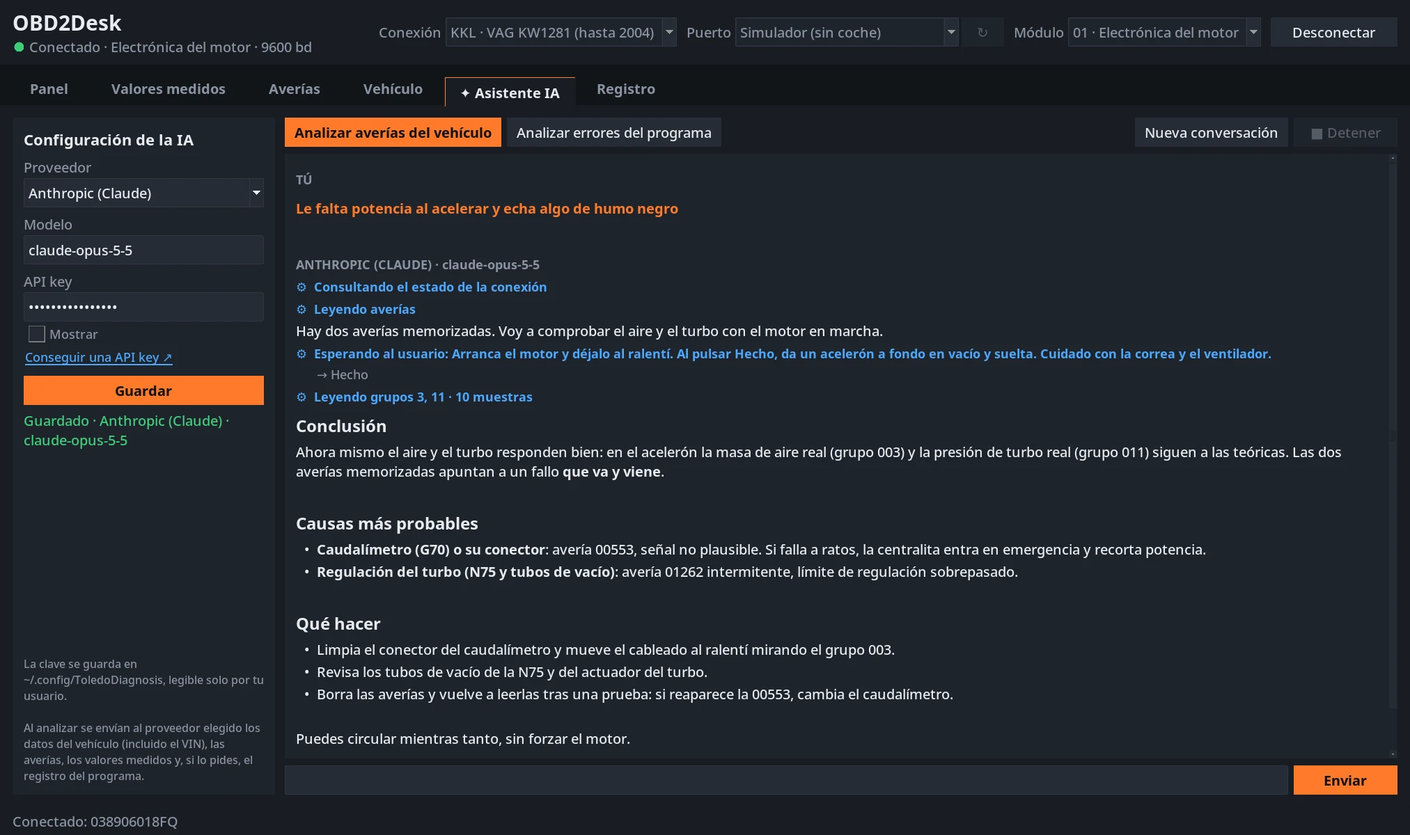
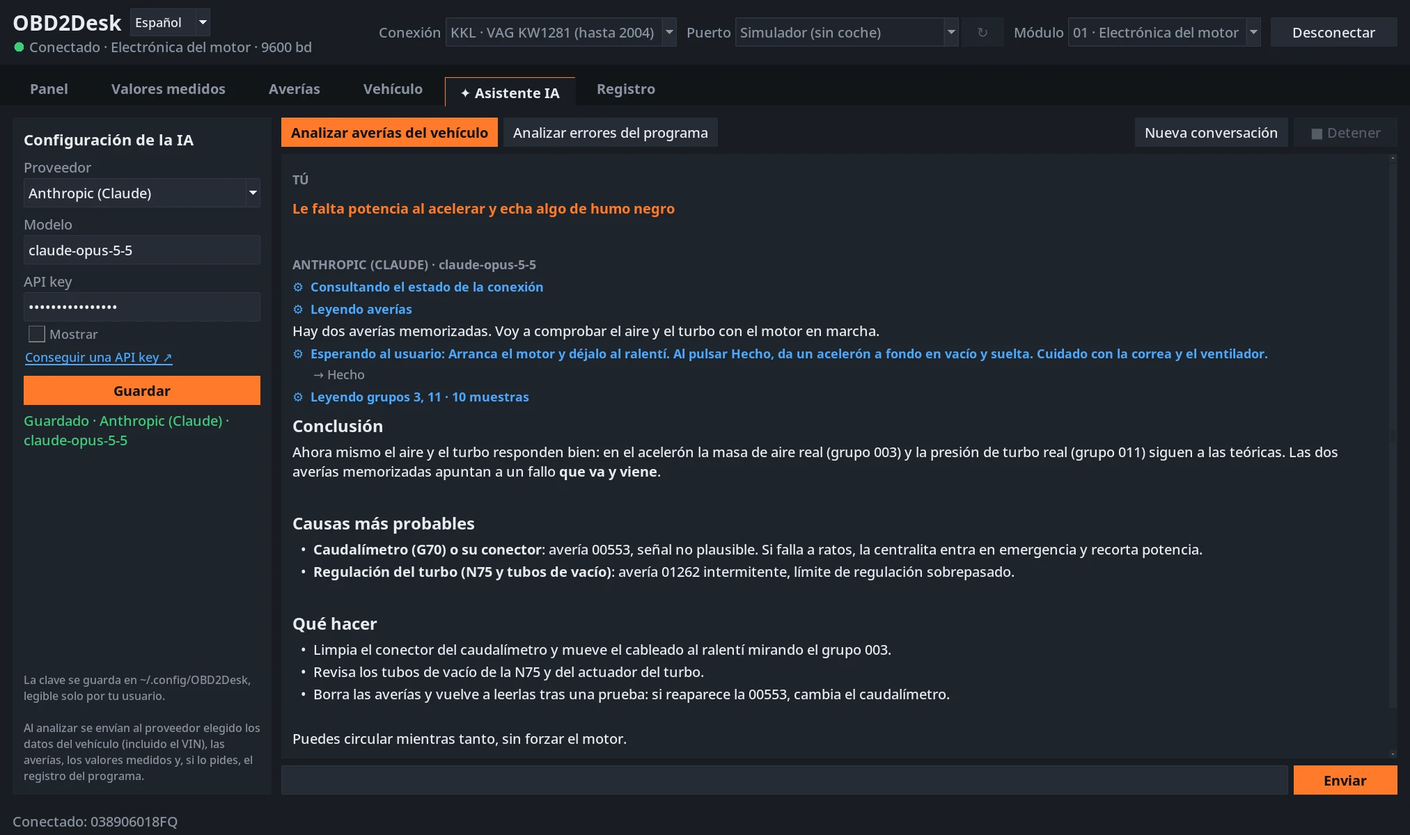
Web: instrucciones de Linux con OBD2Desk y capturas en inglés

diff --git a/web/en/index.html b/web/en/index.html
@@ -11,7 +11,7 @@
 <meta property="og:type" content="website">
 <meta property="og:title" content="OBD2Desk · Car diagnostics from your laptop">
 <meta property="og:description" content="Fault codes, live values and an AI assistant that runs the checks for you. For older VAG cars with a KKL cable and any car with OBD2.">
-<meta property="og:image" content="https://obd2desk.com/img/og.jpg">
+<meta property="og:image" content="https://obd2desk.com/img/en/og.jpg">
 <meta property="og:url" content="https://obd2desk.com/en/">
 <meta property="og:locale" content="en_US">
 <meta property="og:locale:alternate" content="es_ES">
@@ -56,7 +56,7 @@
       <a class="boton boton-secundario" href="https://github.com/jaso69/obd2">View on GitHub</a>
     </div>
     <figure class="captura captura-portada">
-      <a href="../img/panel-kkl.webp" class="ampliar"><img src="../img/panel-kkl.webp" width="1995" height="1200"
+      <a href="../img/en/panel-kkl.webp" class="ampliar"><img src="../img/en/panel-kkl.webp" width="1995" height="1200"
         alt="Dashboard connected to a VAG engine control unit: gauges for RPM, injected quantity, boost and coolant, and charts of boost pressure and air mass"></a>
     </figure>
     <div class="tres">
@@ -86,11 +86,11 @@
         <h3>Live dashboard</h3>
         <p>Gauges and charts of the last 60 seconds. With the KKL cable you see RPM, injected quantity, actual vs. specified boost pressure, air mass, and N75 and EGR duty cycle. With an ELM327: RPM, speed, temperatures, load, MAF, throttle and voltage.</p>
         <div class="selector" role="tablist" data-grupo="panel">
-          <button role="tab" aria-selected="true" data-img="../img/panel-kkl.webp" data-alt="Dashboard in KKL mode with boost and air mass">KKL · VAG</button>
-          <button role="tab" aria-selected="false" data-img="../img/panel-obd.webp" data-alt="Dashboard in OBD2 mode with RPM, speed, coolant and load">ELM327 · OBD2</button>
+          <button role="tab" aria-selected="true" data-img="../img/en/panel-kkl.webp" data-alt="Dashboard in KKL mode with boost and air mass">KKL · VAG</button>
+          <button role="tab" aria-selected="false" data-img="../img/en/panel-obd.webp" data-alt="Dashboard in OBD2 mode with RPM, speed, coolant and load">ELM327 · OBD2</button>
         </div>
       </div>
-      <figure class="captura"><a href="../img/panel-kkl.webp" class="ampliar" data-grupo="panel"><img src="../img/panel-kkl.webp" width="1995" height="1200" loading="lazy" alt="Dashboard in KKL mode with boost and air mass"></a></figure>
+      <figure class="captura"><a href="../img/en/panel-kkl.webp" class="ampliar" data-grupo="panel"><img src="../img/en/panel-kkl.webp" width="1995" height="1200" loading="lazy" alt="Dashboard in KKL mode with boost and air mass"></a></figure>
     </div>
 
     <div class="fila-funcion invertida">
@@ -99,7 +99,7 @@
         <p>Pick VAG measuring blocks (001 injection, 003 MAF and EGR, 011 boost…) or the OBD2 PIDs your car supports, and watch them in a live table.</p>
         <p><strong>CSV logging</strong> saves every reading with a timestamp so you can analyse it later in Excel or LibreOffice.</p>
       </div>
-      <figure class="captura"><a href="../img/valores-kkl.webp" class="ampliar"><img src="../img/valores-kkl.webp" width="1995" height="1200" loading="lazy" alt="Live table of measuring blocks 001, 003 and 011 while logging to CSV"></a></figure>
+      <figure class="captura"><a href="../img/en/valores-kkl.webp" class="ampliar"><img src="../img/en/valores-kkl.webp" width="1995" height="1200" loading="lazy" alt="Live table of measuring blocks 001, 003 and 011 while logging to CSV"></a></figure>
     </div>
 
     <div class="fila-funcion">
@@ -109,11 +109,11 @@
         <p>On OBD2: stored, pending and <strong>permanent</strong> codes, the MIL status and <strong>freeze frame data</strong>: RPM, temperature, load and other engine values at the exact moment the fault was set.</p>
         <p>You can clear them (it always asks for confirmation) and <strong>generate a report</strong> to print or save as PDF, handy for the workshop or when selling the car. Remember: clearing a code does not fix the fault.</p>
         <div class="selector" role="tablist" data-grupo="averias">
-          <button role="tab" aria-selected="true" data-img="../img/averias-kkl.webp" data-alt="Scan of all VAG modules: engine, ABS, airbag and instrument cluster with their faults">KKL · VAG</button>
-          <button role="tab" aria-selected="false" data-img="../img/averias-obd.webp" data-alt="OBD2 stored, pending and permanent codes, with the freeze frame data of P0171">ELM327 · OBD2</button>
+          <button role="tab" aria-selected="true" data-img="../img/en/averias-kkl.webp" data-alt="Scan of all VAG modules: engine, ABS, airbag and instrument cluster with their faults">KKL · VAG</button>
+          <button role="tab" aria-selected="false" data-img="../img/en/averias-obd.webp" data-alt="OBD2 stored, pending and permanent codes, with the freeze frame data of P0171">ELM327 · OBD2</button>
         </div>
       </div>
-      <figure class="captura"><a href="../img/averias-kkl.webp" class="ampliar" data-grupo="averias"><img src="../img/averias-kkl.webp" width="1995" height="1200" loading="lazy" alt="Scan of all VAG modules: engine, ABS, airbag and instrument cluster with their faults"></a></figure>
+      <figure class="captura"><a href="../img/en/averias-kkl.webp" class="ampliar" data-grupo="averias"><img src="../img/en/averias-kkl.webp" width="1995" height="1200" loading="lazy" alt="Scan of all VAG modules: engine, ABS, airbag and instrument cluster with their faults"></a></figure>
     </div>
 
     <div class="fila-funcion invertida">
@@ -122,20 +122,21 @@
         <p>Control unit identification (part number, software, coding). With the KKL cable you can access around twenty control units: gearbox, ABS, Climatronic, airbag, instrument cluster, immobiliser, comfort, radio…</p>
         <p>On OBD2: the <strong>decoded VIN</strong> (manufacturer, country, year and model), ECU calibration, battery voltage and the <strong>readiness monitors</strong>: which emissions self-tests are complete, exactly what the inspection checks.</p>
         <div class="selector" role="tablist" data-grupo="vehiculo">
-          <button role="tab" aria-selected="true" data-img="../img/vehiculo-kkl.webp" data-alt="Engine control unit identification">KKL · VAG</button>
-          <button role="tab" aria-selected="false" data-img="../img/vehiculo-obd.webp" data-alt="OBD2 vehicle data with the decoded VIN and readiness monitors">ELM327 · OBD2</button>
+          <button role="tab" aria-selected="true" data-img="../img/en/vehiculo-kkl.webp" data-alt="Engine control unit identification">KKL · VAG</button>
+          <button role="tab" aria-selected="false" data-img="../img/en/vehiculo-obd.webp" data-alt="OBD2 vehicle data with the decoded VIN and readiness monitors">ELM327 · OBD2</button>
         </div>
       </div>
-      <figure class="captura"><a href="../img/vehiculo-kkl.webp" class="ampliar" data-grupo="vehiculo"><img src="../img/vehiculo-kkl.webp" width="1995" height="1200" loading="lazy" alt="Engine control unit identification"></a></figure>
+      <figure class="captura"><a href="../img/en/vehiculo-kkl.webp" class="ampliar" data-grupo="vehiculo"><img src="../img/en/vehiculo-kkl.webp" width="1995" height="1200" loading="lazy" alt="Engine control unit identification"></a></figure>
     </div>
 
     <ul class="extras">
-      <li><strong>Built-in simulator</strong>: try everything without a car by choosing the port «Simulador (sin coche)».</li>
+      <li><strong>Built-in simulator</strong>: try everything without a car by choosing the port “Simulator (no car)”.</li>
       <li><strong>A single file</strong>: no need to install Python or anything else.</li>
       <li><strong>Full communication log</strong>, with a debug mode, in case something goes wrong.</li>
       <li><strong>Stable session</strong>: keeps the KW1281 connection alive and warns you if it drops.</li>
       <li><strong>Diagnostic report</strong> in HTML, ready to print or save as PDF.</li>
       <li><strong>Update notice</strong> on start-up when a new version is out.</li>
+      <li><strong>English and Spanish</strong>: switch the language from the selector next to the program name.</li>
     </ul>
   </div>
 </section>
@@ -147,16 +148,16 @@
     <p class="intro">Not a chatbot that guesses: the assistant uses the program to test its hypotheses against your car's data.</p>
 
     <ol class="pasos">
-      <li><span>1</span><div><h3>Tell it what's wrong</h3><p>“It lacks power when accelerating and blows black smoke.” Or press <em>Analizar averías del vehículo</em> (analyse vehicle faults).</p></div></li>
+      <li><span>1</span><div><h3>Tell it what's wrong</h3><p>“It lacks power when accelerating and blows black smoke.” Or press <em>Analyse vehicle faults</em>.</p></div></li>
       <li><span>2</span><div><h3>It checks on its own</h3><p>It reads the fault codes and the relevant blocks or PIDs, taking series of readings during a rev or while the engine warms up.</p></div></li>
-      <li><span>3</span><div><h3>It asks for help when needed</h3><p>“Start the engine and give it a rev in neutral.” You press <em>Hecho</em> (done) or <em>No puedo</em> (I can't) and it carries on.</p></div></li>
+      <li><span>3</span><div><h3>It asks for help when needed</h3><p>“Start the engine and give it a rev in neutral.” You press <em>Done</em> or <em>I can't</em> and it carries on.</p></div></li>
       <li><span>4</span><div><h3>Reasoned diagnosis</h3><p>Causes ranked by probability with the evidence, what to do from cheapest to most expensive, and whether the car is safe to drive.</p></div></li>
     </ol>
 
     <div class="dos-capturas">
-      <figure class="captura"><a href="../img/ia-accion.webp" class="ampliar"><img src="../img/ia-accion.webp" width="1995" height="1200" loading="lazy" alt="The assistant asks the user to start the engine and rev it"></a>
+      <figure class="captura"><a href="../img/en/ia-accion.webp" class="ampliar"><img src="../img/en/ia-accion.webp" width="1995" height="1200" loading="lazy" alt="The assistant asks the user to start the engine and rev it"></a>
         <figcaption>The assistant asks for an action and waits for you to do it.</figcaption></figure>
-      <figure class="captura"><a href="../img/ia-diagnostico.webp" class="ampliar"><img src="../img/ia-diagnostico.webp" width="1995" height="1200" loading="lazy" alt="Final diagnosis from the assistant with conclusion, likely causes and next steps"></a>
+      <figure class="captura"><a href="../img/en/ia-diagnostico.webp" class="ampliar"><img src="../img/en/ia-diagnostico.webp" width="1995" height="1200" loading="lazy" alt="Final diagnosis from the assistant with conclusion, likely causes and next steps"></a>
         <figcaption>Every check is shown (⚙) before the diagnosis.</figcaption></figure>
     </div>
     <p class="aclaracion">Screenshots taken with the simulator. The readings and the action window are real; the diagnosis text is an example of how it responds.</p>
@@ -210,7 +211,7 @@
         <p>In Europe, petrol cars from 2001 and diesels from 2003-2004. Available for under €15.</p>
         <ul class="lista-ok">
           <li><strong>USB</strong> or <strong>classic Bluetooth</strong>: pair it in the operating system and it shows up as a COM port (Windows) or <code>/dev/rfcomm0</code> (Linux).</li>
-          <li><strong>WiFi</strong>: connect the laptop to the adapter's WiFi network and choose the port «WiFi · 192.168.0.10:35000» (or type its address if different).</li>
+          <li><strong>WiFi</strong>: connect the laptop to the adapter's WiFi network and choose the port “WiFi · 192.168.0.10:35000” (or type its address if different).</li>
           <li>Many clones claim “v2.1” but are incomplete v1.0; the program is built to work with them.</li>
         </ul>
         <ul class="lista-no">
@@ -230,9 +231,9 @@
           <li>Plug the ELM327 into the car and switch on the ignition: its light comes on.</li>
           <li>In <em>Settings → Bluetooth &amp; devices → Add device → Bluetooth</em>, choose the adapter (usually called <strong>OBDII</strong>, <strong>OBD2</strong> or <strong>V-LINK</strong>). If it asks for a PIN, try <code>1234</code>, <code>0000</code> or <code>6789</code>.</li>
           <li>Check which port it got: <em>More Bluetooth settings → COM Ports tab</em>, the one with direction <strong>Outgoing</strong> (for example, COM5). It also appears in <em>Device Manager → Ports (COM &amp; LPT)</em> as “Standard Serial over Bluetooth link”.</li>
-          <li>In the program: <em>Conexión</em> (connection) ELM327, <em>Puerto</em> (port) that COM, and <em>Conectar</em> (connect). The program usually preselects it.</li>
+          <li>In the program: <em>Connection</em> ELM327, <em>Port</em> that COM, and <em>Connect</em>. The program usually preselects it.</li>
         </ol>
-        <p class="pequeno">It's normal for Windows to show it as “Paired” rather than “Connected”: the connection opens when you press <em>Conectar</em> in the program. If there are two COM ports and one doesn't respond, try the other.</p>
+        <p class="pequeno">It's normal for Windows to show it as “Paired” rather than “Connected”: the connection opens when you press <em>Connect</em> in the program. If there are two COM ports and one doesn't respond, try the other.</p>
       </div>
       <div class="tarjeta">
         <h3>Linux</h3>
@@ -240,7 +241,7 @@
           <li>Plug in the ELM327 and switch on the ignition.</li>
           <li>Pair it from your desktop's Bluetooth settings or with <code>bluetoothctl</code>: <code>scan on</code>, <code>pair AA:BB:CC:DD:EE:FF</code> and <code>trust AA:BB:CC:DD:EE:FF</code> (use the MAC address shown in the scan).</li>
           <li>Linux doesn't create the port by itself. Create it with <code>sudo rfcomm bind 0 AA:BB:CC:DD:EE:FF</code> and you'll get <code>/dev/rfcomm0</code>. Repeat this after each reboot.</li>
-          <li>In the program: <em>Conexión</em> ELM327, <em>Puerto</em> <code>/dev/rfcomm0</code> and <em>Conectar</em>.</li>
+          <li>In the program: <em>Connection</em> ELM327, <em>Port</em> <code>/dev/rfcomm0</code> and <em>Connect</em>.</li>
         </ol>
         <p class="pequeno">If you don't have the <code>rfcomm</code> command: on Fedora install <code>bluez-deprecated</code>; on Arch, <code>bluez-deprecated-tools</code>. On Debian, Ubuntu and Mint it comes with <code>bluez</code>.</p>
       </div>
@@ -254,7 +255,6 @@
   <div class="contenedor">
     <h2>Download and install</h2>
     <p class="intro" id="version-actual">Free and open source. Every version is on <a href="https://github.com/jaso69/obd2/releases">GitHub Releases</a>.</p>
-    <p class="aclaracion"><strong>Language:</strong> the program's interface and the AI assistant's answers are currently in Spanish.</p>
 
     <div class="dos">
       <div class="tarjeta tarjeta-grande">
@@ -270,12 +270,12 @@
         <h3>Linux (64-bit)</h3>
         <a class="boton boton-principal" data-descarga="linux" href="https://github.com/jaso69/obd2/releases">⬇ .tar.gz package</a>
         <p class="pequeno">Ubuntu 20.04+, Debian 11+, Linux Mint 20+, Fedora, openSUSE, Arch…</p>
-<pre><code>tar xzf ToledoDiagnosis-*-linux-x86_64.tar.gz
-cd ToledoDiagnosis
+<pre><code>tar xzf OBD2Desk-*-linux-x86_64.tar.gz
+cd OBD2Desk
 ./instalar.sh
 sudo usermod -aG dialout $USER</code></pre>
         <ol class="lista-pasos">
-          <li>The installer adds it to the applications menu, without sudo. <code>./instalar.sh --desinstalar</code> removes it.</li>
+          <li>The installer adds it to the applications menu, without sudo. <code>./instalar.sh --uninstall</code> removes it. If you had the previous version (Toledo Diagnosis), it replaces it and keeps your settings.</li>
           <li>The last command gives you permission to use the cable (on Arch the group is <code>uucp</code>). Log out and back in.</li>
           <li>Bluetooth ELM327: pair it and bind it with <code>sudo rfcomm bind 0 AA:BB:CC:DD:EE:FF</code>.</li>
         </ol>
@@ -291,11 +291,11 @@ sudo usermod -aG dialout $USER</code></pre>
     <h2>Getting started</h2>
     <div class="dos">
       <ol class="pasos pasos-guia">
-        <li><span>1</span><div><h3>Try it without a car</h3><p>Choose the port «Simulador (sin coche)», press <em>Conectar</em> (connect) and, in the <em>Panel</em> tab, <em>Iniciar lectura</em> (start reading).</p></div></li>
-        <li><span>2</span><div><h3>Connect to the car</h3><p>Ignition on (to read fault codes the engine can be off). Plug the cable into the OBD connector and the laptop, choose <em>Conexión</em> and <em>Puerto</em> and press <em>Conectar</em> (for Bluetooth, first <a href="#bluetooth">pair it and find its COM port</a>). With KKL it takes 2 to 6 s; with an ELM327, up to 25 s (up to a minute if it has to try the K-line protocols).</p></div></li>
-        <li><span>3</span><div><h3>Read the fault codes</h3><p><em>Averías</em> (faults) tab → <em>Leer averías</em> (read faults); on an older VAG car, <em>Escanear todos los módulos</em> (scan all modules) to check the whole car. Save them with <em>Generar informe</em> (generate report) before clearing anything.</p></div></li>
-        <li><span>4</span><div><h3>Watch the values</h3><p><em>Panel</em> for a quick look; <em>Valores medidos</em> (measured values) to pick blocks or PIDs and log to CSV.</p></div></li>
-        <li><span>5</span><div><h3>Ask the AI for help</h3><p>In <em>✦ Asistente IA</em>, save your key, describe the problem and let it run the checks.</p></div></li>
+        <li><span>1</span><div><h3>Try it without a car</h3><p>Choose the port “Simulator (no car)”, press <em>Connect</em> and, in the <em>Dashboard</em> tab, <em>Start reading</em>.</p></div></li>
+        <li><span>2</span><div><h3>Connect to the car</h3><p>Ignition on (to read fault codes the engine can be off). Plug the cable into the OBD connector and the laptop, choose <em>Connection</em> and <em>Port</em> and press <em>Connect</em> (for Bluetooth, first <a href="#bluetooth">pair it and find its COM port</a>). With KKL it takes 2 to 6 s; with an ELM327, up to 25 s (up to a minute if it has to try the K-line protocols).</p></div></li>
+        <li><span>3</span><div><h3>Read the fault codes</h3><p><em>Fault codes</em> tab → <em>Read fault codes</em>; on an older VAG car, <em>Scan all modules</em> to check the whole car. Save them with <em>Generate report</em> before clearing anything.</p></div></li>
+        <li><span>4</span><div><h3>Watch the values</h3><p><em>Dashboard</em> for a quick look; <em>Measured values</em> to pick blocks or PIDs and record a CSV.</p></div></li>
+        <li><span>5</span><div><h3>Ask the AI for help</h3><p>In <em>✦ AI assistant</em>, save your key, describe the problem and let it run the checks.</p></div></li>
       </ol>
       <div>
         <h3>Useful blocks on the 1.9 TDI (EDC15)</h3>
@@ -321,7 +321,7 @@ sudo usermod -aG dialout $USER</code></pre>
 <section id="faq" class="seccion seccion-alterna">
   <div class="contenedor contenedor-estrecho">
     <h2>Troubleshooting</h2>
-    <details><summary>Won't connect with the KKL cable (“Sin byte de sincronismo 0x55” – no 0x55 sync byte)</summary>
+    <details><summary>Won't connect with the KKL cable (“No 0x55 sync byte”)</summary>
       <p>Check that the ignition is on and the port is correct. Make sure the cable has an FTDI chip and not a CH340, that it isn't a fake FTDI and, if it has a switch, that it's in position 1. An aftermarket radio can block the K-line: unplug it to test.</p></details>
     <details><summary>It says “Keywords KWP2000”</summary>
       <p>The control unit doesn't speak KW1281 but KWP2000. Try an ELM327 in OBD2 mode.</p></details>
@@ -330,16 +330,16 @@ sudo usermod -aG dialout $USER</code></pre>
     <details><summary>ELM327: “the vehicle does not respond to OBD2”</summary>
       <p>Switch on the ignition. If it's a VAG car from before 2004, it probably doesn't have generic OBD2: you need the KKL cable.</p></details>
     <details><summary>ELM327: older car with an OBD2 connector that won't connect (e.g. Mercedes)</summary>
-      <p>Pre-CAN cars (roughly up to 2005-2007) speak OBD2 over the K-line, and with some cars and adapters the ELM327's automatic search can't find the protocol. That's why the program then tries KWP2000 (fast and slow init) and ISO 9141 one by one, and the <em>Registro</em> (log) shows which one worked. If it still doesn't respond, the car may not be OBD2-compliant despite having the connector (in Europe it's mandatory from 2001 for petrol and 2004 for diesel; many older Mercedes only answer the brand's own tools), or the adapter may be a cheap clone that doesn't handle the K-line well.</p></details>
+      <p>Pre-CAN cars (roughly up to 2005-2007) speak OBD2 over the K-line, and with some cars and adapters the ELM327's automatic search can't find the protocol. That's why the program then tries KWP2000 (fast and slow init) and ISO 9141 one by one, and the <em>Log</em> tab shows which one worked. If it still doesn't respond, the car may not be OBD2-compliant despite having the connector (in Europe it's mandatory from 2001 for petrol and 2004 for diesel; many older Mercedes only answer the brand's own tools), or the adapter may be a cheap clone that doesn't handle the K-line well.</p></details>
     <details><summary>I can't find the Bluetooth ELM327's port</summary>
       <p>You don't choose Bluetooth directly: when you pair it, the system creates a serial port and that's what you select (<a href="#bluetooth">step by step</a>). On Windows, pairing creates two COM ports: if one doesn't work, try the other. On Linux you have to bind it with <code>sudo rfcomm bind 0 &lt;MAC&gt;</code> and choose <code>/dev/rfcomm0</code>.</p></details>
     <details><summary>How do I connect a WiFi ELM327?</summary>
-      <p>The adapter creates its own WiFi network (usually called “WiFi_OBDII”, “OBDII” or “V-LINK”). Connect the laptop to that network, choose <em>Conexión</em> ELM327 and, in <em>Puerto</em>, «WiFi · 192.168.0.10:35000». If your adapter uses another address (for example 192.168.1.10), type it in the port field as <code>ip:port</code>. While connected to its network you won't have internet, so the AI assistant won't work at the same time.</p></details>
+      <p>The adapter creates its own WiFi network (usually called “WiFi_OBDII”, “OBDII” or “V-LINK”). Connect the laptop to that network, choose <em>Connection</em> ELM327 and, in <em>Port</em>, “WiFi · 192.168.0.10:35000”. If your adapter uses another address (for example 192.168.1.10), type it in the port field as <code>ip:port</code>. While connected to its network you won't have internet, so the AI assistant won't work at the same time.</p></details>
     <details><summary>Linux: “Permission denied” when connecting</summary>
       <p>Your user must be in the serial port group: <code>sudo usermod -aG dialout $USER</code> (on Arch, <code>uucp</code>) and log in again. The program itself tells you the exact command.</p></details>
     <details><summary>Linux (Ubuntu/Mint): the cable doesn't show up as /dev/ttyUSB0</summary>
       <p>The brltty service (for braille displays) grabs many USB-serial adapters. If you don't use it: <code>sudo apt remove brltty</code>.</p></details>
-    <details><summary>The assistant says “API key no válida” (invalid key), “sin saldo” (no credit) or “modelo no encontrado” (model not found)</summary>
+    <details><summary>The assistant says “Invalid API key”, “no credit” or “model not found”</summary>
       <p>Check the key and billing on the provider's website. If the model doesn't exist, change its name in the AI settings.</p></details>
     <details><summary>Windows warns that the program isn't safe</summary>
       <p>That's SmartScreen: the executable isn't digitally signed. Click <em>More info → Run anyway</em>. The source code is public on GitHub.</p></details>
@@ -360,7 +360,6 @@ sudo usermod -aG dialout $USER</code></pre>
     <ul class="lista-no">
       <li>WiFi connection validated with the simulator; yet to be verified with a real WiFi ELM327 adapter.</li>
       <li>Focused on diagnostics (fault codes and measured values): adaptations, basic settings, coding and actuator tests are not included in this version.</li>
-      <li>The interface is currently available in Spanish only.</li>
     </ul>
     <p>If you use it on your car, your feedback helps improve it: share it on <a href="https://github.com/jaso69/obd2/issues">GitHub Issues</a>.</p>
   </div>

diff --git a/web/index.html b/web/index.html
@@ -137,6 +137,7 @@
       <li><strong>Sesión estable</strong>: mantiene viva la conexión KW1281 y avisa si se pierde.</li>
       <li><strong>Informe de diagnóstico</strong> en HTML, listo para imprimir o guardar como PDF.</li>
       <li><strong>Avisa de versiones nuevas</strong> al arrancar.</li>
+      <li><strong>En español e inglés</strong>: el idioma se cambia en el selector junto al nombre del programa.</li>
     </ul>
   </div>
 </section>
@@ -270,12 +271,12 @@
         <h3>Linux (64 bits)</h3>
         <a class="boton boton-principal" data-descarga="linux" href="https://github.com/jaso69/obd2/releases">⬇ Paquete .tar.gz</a>
         <p class="pequeno">Ubuntu 20.04+, Debian 11+, Linux Mint 20+, Fedora, openSUSE, Arch…</p>
-<pre><code>tar xzf ToledoDiagnosis-*-linux-x86_64.tar.gz
-cd ToledoDiagnosis
+<pre><code>tar xzf OBD2Desk-*-linux-x86_64.tar.gz
+cd OBD2Desk
 ./instalar.sh
 sudo usermod -aG dialout $USER</code></pre>
         <ol class="lista-pasos">
-          <li>El instalador lo añade al menú de aplicaciones, sin sudo. <code>./instalar.sh --desinstalar</code> lo quita.</li>
+          <li>El instalador lo añade al menú de aplicaciones, sin sudo. <code>./instalar.sh --desinstalar</code> lo quita. Si tenías la versión anterior (Toledo Diagnosis), la sustituye y conserva tu configuración.</li>
           <li>Con el último comando das permiso para usar el cable (en Arch el grupo es <code>uucp</code>). Cierra sesión y vuelve a entrar.</li>
           <li>ELM327 Bluetooth: emparéjalo y enlázalo con <code>sudo rfcomm bind 0 AA:BB:CC:DD:EE:FF</code>.</li>
         </ol>

diff --git a/web/capturas.py b/web/capturas.py
@@ -1,9 +1,11 @@
 """
 Genera las capturas de la web con los simuladores, en una pantalla virtual.
 
-    xvfb-run -a -s "-screen 0 2400x1500x24 -dpi 144" python3 web/capturas.py
+    xvfb-run -a -s "-screen 0 2400x1500x24 -dpi 144" python3 web/capturas.py        (español)
+    xvfb-run -a -s "-screen 0 2400x1500x24 -dpi 144" python3 web/capturas.py en     (inglés)
 
-Necesita ImageMagick (import, magick). Deja las imágenes en web/img/ (*.webp y og.jpg).
+Necesita ImageMagick (import, magick). Deja las imágenes en web/img/ (*.webp y og.jpg)
+o, en inglés, en web/img/en/.
 La conversación del asistente IA es un guion de ejemplo (no gasta saldo): solo
 se sustituye la llamada al modelo; las herramientas se ejecutan de verdad
 contra el simulador, así que las lecturas y el diálogo son los reales.
@@ -17,7 +19,10 @@ import time
 RAIZ = os.path.join(os.path.dirname(os.path.abspath(__file__)), "..")
 sys.path.insert(0, RAIZ)
 os.environ["XDG_CONFIG_HOME"] = os.environ["APPDATA"] = tempfile.mkdtemp()
-os.environ["TOLEDO_SIN_COMPROBAR_VERSION"] = "1"
+os.environ["OBD2DESK_SIN_COMPROBAR_VERSION"] = "1"
+IDIOMA = sys.argv[1] if len(sys.argv) > 1 else "es"
+os.environ["OBD2DESK_IDIOMA"] = IDIOMA
+EN = IDIOMA == "en"
 
 import tkinter as tk                # noqa: E402
 from tkinter import messagebox      # noqa: E402
@@ -25,7 +30,7 @@ from tkinter import messagebox      # noqa: E402
 import gui                          # noqa: E402
 import ia                           # noqa: E402
 
-SALIDA = os.path.join(RAIZ, "web", "img")
+SALIDA = os.path.join(RAIZ, "web", "img", "en") if EN else os.path.join(RAIZ, "web", "img")
 os.makedirs(SALIDA, exist_ok=True)
 messagebox.askyesno = lambda *a, **k: True
 
@@ -42,6 +47,21 @@ Ahora mismo el aire y el turbo responden bien: en el acelerón la masa de aire r
 - Borra las averías y vuelve a leerlas tras una prueba: si reaparece la 00553, cambia el caudalímetro.
 
 Puedes circular mientras tanto, sin forzar el motor.
+"""
+
+TEXTO_IA_EN = """## Conclusion
+Right now the air and the turbo respond well: during the rev the actual air mass (block 003) and the actual boost pressure (block 011) follow the specified values. The two stored faults point to a problem **that comes and goes**.
+
+## Most likely causes
+- **Air mass meter (G70) or its connector**: fault 00553, implausible signal. If it drops out intermittently, the ECU goes into limp mode and cuts power.
+- **Boost control (N75 and vacuum hoses)**: intermittent fault 01262, control limit exceeded.
+
+## What to do
+- Clean the air mass meter connector and wiggle the wiring at idle while watching block 003.
+- Check the vacuum hoses of the N75 and the turbo actuator.
+- Clear the faults and read them again after a test drive: if 00553 comes back, replace the air mass meter.
+
+You can keep driving in the meantime, without pushing the engine.
 """
 
 
@@ -87,34 +107,25 @@ def guion_ia(self, peticion, on_text, on_tool, cancelado):
     """Sustituye a Conversacion.enviar: herramientas reales, texto de ejemplo."""
     on_tool("estado_conexion", {})
     on_tool("leer_averias", {})
-    on_text("Hay dos averías memorizadas. Voy a comprobar el aire y el turbo con el motor en marcha.\n")
-    on_tool("pedir_accion_usuario", {"instruccion": "Arranca el motor y déjalo al ralentí. Al pulsar "
-                                     "Hecho, da un acelerón a fondo en vacío y suelta. Cuidado con la "
-                                     "correa y el ventilador."})
+    on_text("There are two stored faults. I'll check the air and the turbo with the engine running.\n" if EN else
+            "Hay dos averías memorizadas. Voy a comprobar el aire y el turbo con el motor en marcha.\n")
+    on_tool("pedir_accion_usuario", {"instruccion": (
+        "Start the engine and let it idle. When you press Done, floor the throttle in neutral and release it. "
+        "Mind the belt and the fan." if EN else
+        "Arranca el motor y déjalo al ralentí. Al pulsar Hecho, da un acelerón a fondo en vacío y suelta. "
+        "Cuidado con la correa y el ventilador.")})
     on_tool("leer_valores", {"elementos": ["3", "11"], "muestras": 10, "intervalo_s": 0})
-    for parte in TEXTO_IA.split(" "):
+    for parte in (TEXTO_IA_EN if EN else TEXTO_IA).split(" "):
         on_text(parte + " ")
         time.sleep(0.005)
     return True
 
 
-root = tk.Tk(className="ToledoDiagnosis")
+root = tk.Tk(className=gui.NOMBRE)
 gui._elegir_fuentes(root)
 app = gui.App(root)
 
 
-def renombrar(w):
-    """La web ya usa el nombre OBD2Desk; el programa aún no (pendiente de renombrar)."""
-    try:
-        if w.cget("text") == "Toledo Diagnosis":
-            w.configure(text="OBD2Desk")
-    except tk.TclError:
-        pass
-    for h in w.winfo_children():
-        renombrar(h)
-
-
-renombrar(root)
 root.geometry("+0+0")
 pausa(1)
 
@@ -157,7 +168,8 @@ ia.Conversacion.enviar = guion_ia
 app.nb.select(app.tab_ia)
 app.ai_key.insert(0, "clave-de-ejemplo")
 app._ai_save()                              # en la config temporal
-app.ai_entry.insert(0, "Le falta potencia al acelerar y echa algo de humo negro")
+app.ai_entry.insert(0, "It lacks power when accelerating and blows some black smoke" if EN else
+                    "Le falta potencia al acelerar y echa algo de humo negro")
 app._ai_ask()
 if not esperar(lambda: app.ai_dialog is not None, 30):
     sys.exit("No aparece el diálogo de la IA")
@@ -165,7 +177,7 @@ pausa(1)
 capturar("ia-accion")
 w, reply = app.ai_dialog
 app.ai_dialog = None
-reply.put(("Hecho", False))
+reply.put((gui.tr("Hecho"), False))
 w.destroy()
 esperar(lambda: not app.ai_busy, 60)
 pausa(1)
